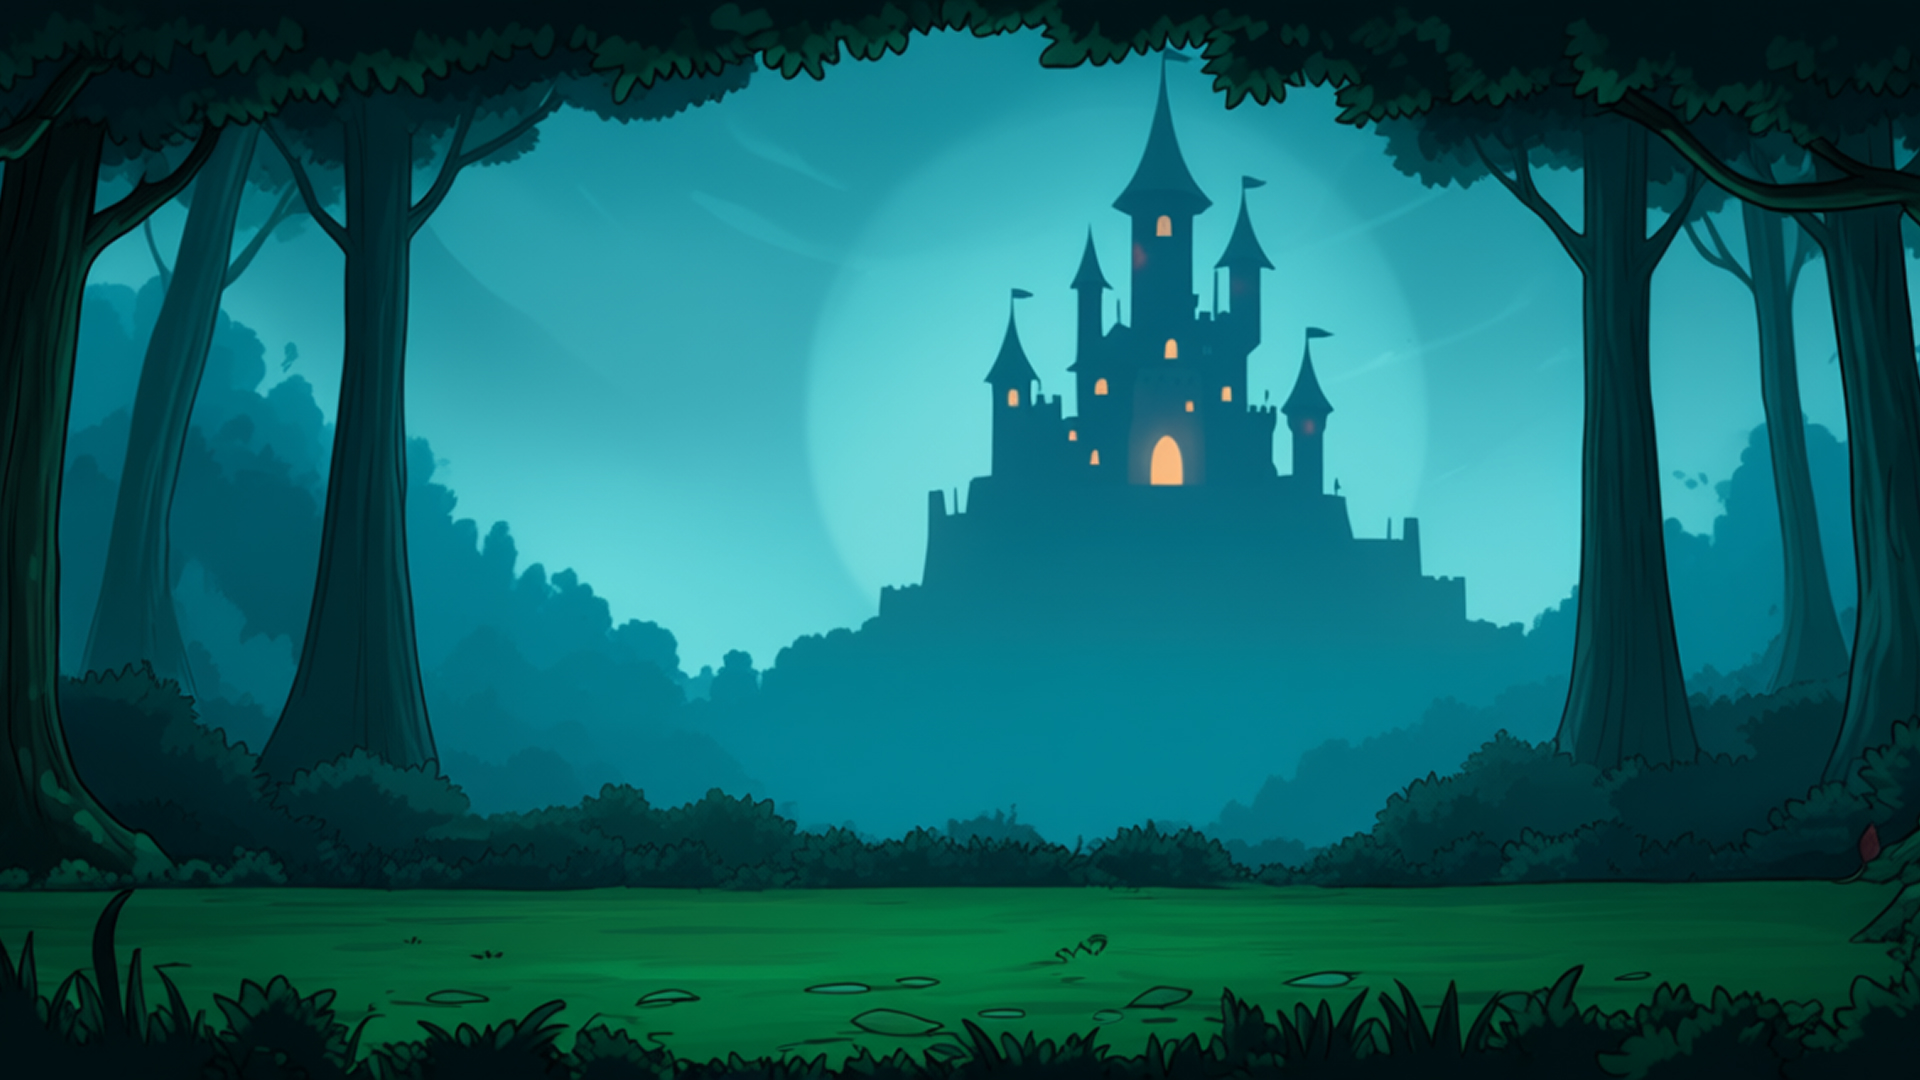
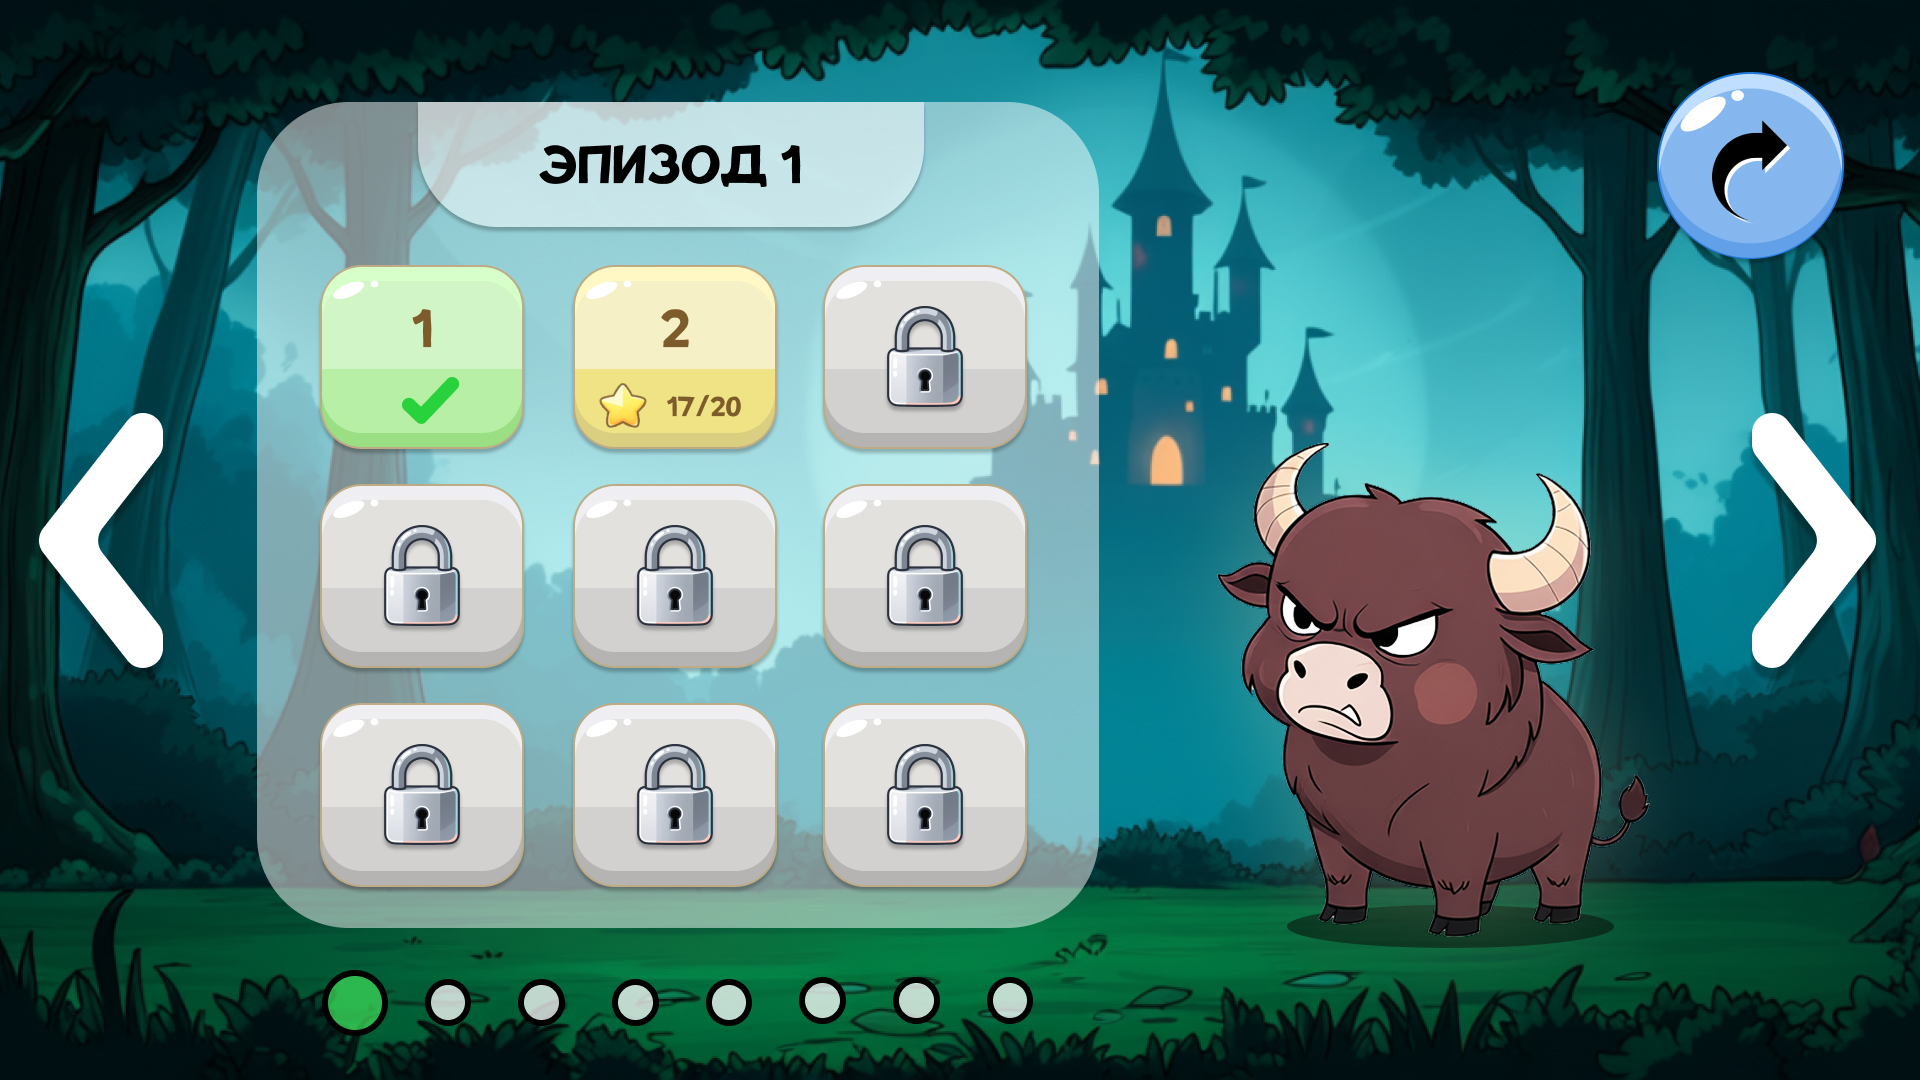
40

diff --git a/scripts/c3runtime.js b/scripts/c3runtime.js
@@ -1159,6 +1159,16 @@ const C3=self.C3,TILE_INDEX_MAP=new Map([[2,1],[8,2],[10,3],[11,4],[16,5],[18,6]
 const C3=self.C3;C3.Plugins.Tilemap.Patch=class{constructor(r){this._manager=r,this._mode=r.PAINT_MODE,this._mirror=0,this._flip=0,this._diagonal=0,this._indexTransformMirror=0,this._indexTransformFlip=0,this._indexTransformDiagonal=0}SetMode(r){this._mode=r}GetMode(){return this._mode}GetBrushWidth(r){return r.tileData[0].length}GetBrushHeight(r){return r.tileData.length}TransformPatch(r,t=!1,i=!1,e=0,a=0,s=0){switch(r=this._SetTransformState(0,0,e,r),this._indexTransformMirror=this._mirror,this._indexTransformFlip=this._flip,this._indexTransformDiagonal=this._diagonal,this._diagonal&&(r=this._TransposePatch(r)),this._mirror&&(r=this._MirrorPatch(r,s===this._manager.PAINT_MODE)),this._flip&&(r=this._FlipPatch(r,s===this._manager.PAINT_MODE)),r=this._SetTransformState(t?1:0,i?1:0,0,r),e){case 0:this._indexTransformMirror=this._mirror,this._indexTransformFlip=this._flip;break;case 1:this._indexTransformMirror=1^this._mirror,this._indexTransformFlip=this._flip;break;case 2:this._indexTransformMirror=1^this._mirror,this._indexTransformFlip=1^this._flip;break;case 3:this._indexTransformMirror=this._mirror,this._indexTransformFlip=1^this._flip}return this._mirror&&(r=this._MirrorPatch(r,s===this._manager.PAINT_MODE)),this._flip&&(r=this._FlipPatch(r,s===this._manager.PAINT_MODE)),r}BuildPatch(r,t,i){const e=i.tileData[0].length,a=i.tileData.length,s=Array.from({length:a},()=>new Array(e).fill(this._manager.EMPTY_INDEX)),n=this._manager.GetProbabilityTable();n.Clear();for(let r=0;r<a;r++)for(let t=0;t<e;t++){const e=i.tileData[r][t];switch(this._mode){case this._manager.PAINT_MODE:if(1===e.length){const i=e[0][0];if(i>this._manager.GetSdkIntance().GetMaxTileIndex())continue;s[r][t]=i}else{for(let[r,t]of e)r>this._manager.GetSdkIntance().GetMaxTileIndex()||("number"!=typeof t&&(t=1),n.AddItem(t,r));s[r][t]=n.Sample()}break;case this._manager.ERASE_MODE:i.tileData[r][t][0][0]===this._manager.EMPTY_INDEX?s[r][t]=this._manager.IGNORE_INDEX:s[r][t]=this._manager.EMPTY_INDEX}}return s}_SetTransformState(r,t,i,e){switch(i){case 0:this._mirror=r,this._flip=t,this._diagonal=0;break;case 1:this._mirror=1^t,this._flip=r,this._diagonal=1;break;case 2:this._mirror=1^r,this._flip=1^t,this._diagonal=0;break;case 3:this._mirror=t,this._flip=1^r,this._diagonal=1}return e}_GetTileIndexTransformation(r){if(r===this._manager.IGNORE_INDEX||r===this._manager.EMPTY_INDEX)return r;const t=globalThis.ITilemapInstance;let i=r&t.TILE_ID_MASK;return this._indexTransformDiagonal&&(i|=t.TILE_FLIPPED_DIAGONAL),this._indexTransformMirror&&(i|=t.TILE_FLIPPED_HORIZONTAL),this._indexTransformFlip&&(i|=t.TILE_FLIPPED_VERTICAL),i}_MirrorPatch(r,t){for(let t=0;t<r.length;t++)r[t].reverse();if(t){let t=r[0].length,i=r.length;for(let e=0;e<i;e++)for(let i=0;i<t;i++){const t=this._GetTileIndexTransformation(r[e][i]);r[e][i]=t}}return r}_FlipPatch(r,t){if(r.reverse(),t){let t=r[0].length,i=r.length;for(let e=0;e<i;e++)for(let i=0;i<t;i++){const t=this._GetTileIndexTransformation(r[e][i]);r[e][i]=t}}return r}_TransposePatch(r){let t=[],i=r.length,e=r[0].length;for(let a=0;a<e;a++){let e=[];for(let t=0;t<i;t++)e.push(r[t][a]);t.push(e)}return t}};
 }
 
+// scripts/plugins/NinePatch/c3runtime/runtime.js
+{
+{const t=self.C3;t.Plugins.NinePatch=class extends t.SDKPluginBase{constructor(t){super(t)}Release(){super.Release()}}}{const t=self.C3;t.Plugins.NinePatch.Type=class extends t.SDKTypeBase{constructor(t){super(t),this._textureSet=null,this._drawable=null}Release(){this.ReleaseTextures(),super.Release()}OnCreate(){this.GetImageInfo().LoadAsset(this._runtime)}async LoadTextures(t){const e=this.GetImageInfo();this._drawable=await e.ExtractImageToCanvas()}CreatePatch(t,e,s,i){!this._textureSet&&this._drawable&&(this._textureSet=new self.NinePatchTextureSet(this),this._textureSet.CreateTextures(this._drawable,t,e,s,i))}ReleaseTextures(){this._textureSet&&(this._textureSet.Release(),this._textureSet=null)}GetTextureSet(){return this._textureSet}}}{const t=self.C3,e=0,s=1,i=2,a=3,h=4,r=5,l=6,n=8,_=t.New(t.Rect),c=t.New(t.Rect),u=t.New(t.Quad);t.Plugins.NinePatch.Instance=class extends t.SDKWorldInstanceBase{constructor(t,_){super(t),this._leftMargin=16,this._rightMargin=16,this._topMargin=16,this._bottomMargin=16,this._edges=1,this._fill=1,this._isSeamless=!0,this._callback3d=null,_&&(this._leftMargin=_[e],this._rightMargin=_[s],this._topMargin=_[i],this._bottomMargin=_[a],this._edges=_[h],this._fill=_[r],this._isSeamless=!!_[n],this.GetWorldInfo().SetVisible(!!_[l])),this._sdkType.CreatePatch(this._leftMargin,this._rightMargin,this._topMargin,this._bottomMargin)}Release(){super.Release()}_Set3DCallback(t){this._callback3d=t}Draw(t){const e=this.GetWorldInfo(),s=e.GetBoundingQuad();this._Draw(t,s.getTlx(),s.getTly(),e.GetWidth(),e.GetHeight())}_Draw(t,e,s,i,a){let h=this._sdkType.GetTextureSet();if(!h&&(this._sdkType.CreatePatch(this._leftMargin,this._rightMargin,this._topMargin,this._bottomMargin),h=this._sdkType.GetTextureSet(),!h))return;const r=h.GetImageWidth(),l=h.GetImageHeight(),n=Math.min(this._leftMargin,r),_=Math.min(this._rightMargin,r),c=Math.min(this._topMargin,l),u=Math.min(this._bottomMargin,l),o=r-_,g=l-u,d=this._isSeamless?1:0,T=this._edges,x=this._fill;if(n>0&&c>0&&this._DrawPatch(t,h.GetTexture(),0,0,n+d,c+d,e,s,n+d,c+d),_>0&&c>0&&this._DrawPatch(t,h.GetTexture(),o-d,0,_+d,c+d,e+i-_-d,s,_+d,c+d),_>0&&u>0&&this._DrawPatch(t,h.GetTexture(),o-d,g-d,_+d,u+d,e+i-_-d,s+a-u-d,_+d,u+d),n>0&&u>0&&this._DrawPatch(t,h.GetTexture(),0,g-d,n+d,u+d,e,s+a-u-d,n+d,u+d),0===T){const r=2===x?0:d;n>0&&g>c&&this._TilePatch(t,h.GetLeftTexture(),e,s+c,n+r,a-c-u,0,0),_>0&&g>c&&this._TilePatch(t,h.GetRightTexture(),e+i-_-r,s+c,_+r,a-c-u,r,0),c>0&&o>n&&this._TilePatch(t,h.GetTopTexture(),e+n,s,i-n-_,c+r,0,0),u>0&&o>n&&this._TilePatch(t,h.GetBottomTexture(),e+n,s+a-u-r,i-n-_,u+r,0,r)}else 1===T&&(n>0&&g>c&&this._DrawPatch(t,h.GetTexture(),0,c,n,g-c,e,s+c,n,a-c-u),_>0&&g>c&&this._DrawPatch(t,h.GetTexture(),o,c,_,g-c,e+i-_,s+c,_,a-c-u),c>0&&o>n&&this._DrawPatch(t,h.GetTexture(),n,0,o-n,c,e+n,s,i-n-_,c),u>0&&o>n&&this._DrawPatch(t,h.GetTexture(),n,g,o-n,u,e+n,s+a-u,i-n-_,u));g>c&&o>n&&(0===x?this._TilePatch(t,h.GetFillTexture(),e+n,s+c,i-n-_,a-c-u,0,0):1===x&&this._DrawPatch(t,h.GetTexture(),n,c,o-n,g-c,e+n,s+c,i-n-_,a-c-u))}_DrawPatch(t,e,s,i,a,h,r,l,n,o){const g=e.GetWidth(),d=e.GetHeight();if(t.SetTexture(e),_.set(r,l,r+n,l+o),c.set(s/g,i/d,(s+a)/g,(i+h)/d),null===this._callback3d){const e=this.GetWorldInfo(),s=e.GetBoundingQuad(),i=s.getTlx(),a=s.getTly();_.offset(-i,-a),u.setFromRotatedRect(_,e.GetAngle()),u.offset(i,a),t.Quad3(u,c)}else this._callback3d(_,c)}_TilePatch(t,e,s,i,a,h,r,l){const n=e.GetWidth(),o=e.GetHeight();if(t.SetTexture(e),_.set(s,i,s+a,i+h),c.set(-r/n,-l/o,(a-r)/n,(h-l)/o),null===this._callback3d){const e=this.GetWorldInfo(),s=e.GetBoundingQuad(),i=s.getTlx(),a=s.getTly();_.offset(-i,-a),u.setFromRotatedRect(_,e.GetAngle()),u.offset(i,a),t.Quad3(u,c)}else this._callback3d(_,c)}GetCurrentImageInfo(){this._objectClass.GetImageInfo()}GetPropertyValueByIndex(t){}SetPropertyValueByIndex(t,e){}}}self.C3.Plugins.NinePatch.Cnds={};self.C3.Plugins.NinePatch.Acts={SetEffect(t){this.GetWorldInfo().SetBlendMode(t),this._runtime.UpdateRender()}};self.C3.Plugins.NinePatch.Exps={};
+}
+
+// scripts/plugins/NinePatch/c3runtime/textureSet.js
+{
+const C3=self.C3;function CloneDrawable(e){const t=C3.CreateCanvas(e.width,e.height);return t.getContext("2d").drawImage(e,0,0),t}self.NinePatchTextureSet=class{constructor(e){this._sdkType=e,this._runtime=this._sdkType.GetRuntime(),this._texture=null,this._fillTexture=null,this._leftTexture=null,this._rightTexture=null,this._topTexture=null,this._bottomTexture=null,this._imageWidth=0,this._imageHeight=0,this._renderer=this._runtime.GetRenderer(),this._isLoading=!1,this._wasReleased=!1}Release(){this._renderer.IsContextLost()||(this._renderer.DeleteTexture(this._texture),this._renderer.DeleteTexture(this._fillTexture),this._renderer.DeleteTexture(this._leftTexture),this._renderer.DeleteTexture(this._rightTexture),this._renderer.DeleteTexture(this._topTexture),this._renderer.DeleteTexture(this._bottomTexture)),this._texture=null,this._fillTexture=null,this._leftTexture=null,this._rightTexture=null,this._topTexture=null,this._bottomTexture=null,this._sdkType=null,this._renderer=null,this._wasReleased=!0}WasReleased(){return this._wasReleased}CreateTextures(e,t,r,i,s){this._SliceImage(e,t,r,i,s)}HasCreatedTextures(){return!!this._texture}_SliceImage(e,t,r,i,s){if(this._wasReleased)return;const a=e.width,h=e.height;this._imageWidth=a,this._imageHeight=h,t=Math.min(Math.floor(t),a),r=Math.min(Math.floor(r),a),i=Math.min(Math.floor(i),h);const l=a-r,u=h-(s=Math.min(Math.floor(s),h)),n=this._runtime.GetSampling(),_=this._runtime.GetCanvasManager().GetTextureAnisotropy();this._texture=this._renderer.CreateStaticTexture(CloneDrawable(e),{sampling:n,anisotropy:_}),l>t&&u>i&&(this._fillTexture=this._renderer.CreateStaticTexture(this._SliceSubImage(CloneDrawable(e),t,i,l,u),{wrapX:"repeat",wrapY:"repeat",sampling:n,anisotropy:_})),t>0&&u>i&&(this._leftTexture=this._renderer.CreateStaticTexture(this._SliceSubImage(CloneDrawable(e),0,i,t,u),{wrapY:"repeat",sampling:n,anisotropy:_})),r>0&&u>i&&(this._rightTexture=this._renderer.CreateStaticTexture(this._SliceSubImage(CloneDrawable(e),l,i,a,u),{wrapY:"repeat",sampling:n,anisotropy:_})),i>0&&l>t&&(this._topTexture=this._renderer.CreateStaticTexture(this._SliceSubImage(CloneDrawable(e),t,0,l,i),{wrapX:"repeat",sampling:n,anisotropy:_})),s>0&&l>t&&(this._bottomTexture=this._renderer.CreateStaticTexture(this._SliceSubImage(CloneDrawable(e),t,u,l,h),{wrapX:"repeat",sampling:n,anisotropy:_}))}_SliceSubImage(e,t,r,i,s){const a=i-t,h=s-r,l=C3.CreateCanvas(a,h);return l.getContext("2d").drawImage(e,t,r,a,h,0,0,a,h),l}GetImageWidth(){return this._imageWidth}GetImageHeight(){return this._imageHeight}GetTexture(){return this._texture}GetFillTexture(){return this._fillTexture}GetLeftTexture(){return this._leftTexture}GetRightTexture(){return this._rightTexture}GetTopTexture(){return this._topTexture}GetBottomTexture(){return this._bottomTexture}};
+}
+
 // scripts/plugins/Keyboard/c3runtime/runtime.js
 {
 {const e=self.C3;e.Plugins.Keyboard=class extends e.SDKPluginBase{constructor(e){super(e)}Release(){super.Release()}}}{const r=self.C3;self.C3X;r.Plugins.Keyboard.Type=class extends r.SDKTypeBase{constructor(e){super(e)}Release(){super.Release()}OnCreate(){}GetScriptInterfaceClass(){return self.IKeyboardObjectType}};let t=null;function GetKeyboardSdkInstance(){return t.GetSingleGlobalInstance().GetSdkInstance()}self.IKeyboardObjectType=class extends self.IObjectType{constructor(e){super(e),t=e,e.GetRuntime()._GetCommonScriptInterfaces().keyboard=this}isKeyDown(e){const r=GetKeyboardSdkInstance();if("string"==typeof e)return r.IsKeyDown(e);if("number"==typeof e)return r.IsKeyCodeDown(e);throw new TypeError("expected string or number")}}}{const s=self.C3,n="keyboard";s.Plugins.Keyboard.Instance=class extends s.SDKInstanceBase{constructor(e,r){super(e,n),this._keysDownByString=new Set,this._keysDownByWhich=new Set,this._triggerWhich=0,this._triggerString="",this._triggerTypedKey="",this._isKeyboardLockSupported=!1;const t=this.GetRuntime().Dispatcher();this._disposables=new s.CompositeDisposable(s.Disposable.From(t,"keydown",e=>this._OnKeyDown(e.data)),s.Disposable.From(t,"keyup",e=>this._OnKeyUp(e.data)),s.Disposable.From(t,"window-blur",()=>this._OnWindowOrKeyboardBlur()),s.Disposable.From(t,"keyboard-blur",()=>this._OnWindowOrKeyboardBlur())),this._runtime.AddLoadPromise(this._Init())}Release(){super.Release()}async _Init(){const e=await this.PostToDOMAsync("init");this._isKeyboardLockSupported=e["isKeyboardLockSupported"]}_OnKeyDown(e){const r=e["which"],t=e["code"]||r.toString(),n=e["key"];this._keysDownByString.has(t)||(this._keysDownByString.add(t),this._keysDownByWhich.add(r),this._triggerString=t,this._triggerWhich=r,this._triggerTypedKey=n,this.Trigger(s.Plugins.Keyboard.Cnds.OnAnyKey),this.Trigger(s.Plugins.Keyboard.Cnds.OnKey),this.Trigger(s.Plugins.Keyboard.Cnds.OnLeftRightKeyPressed),this.Trigger(s.Plugins.Keyboard.Cnds.OnKeyCode))}_OnKeyUp(e){const r=e["which"],t=e["code"]||r.toString(),n=e["key"];this._keysDownByString.delete(t),this._keysDownByWhich.delete(r),this._triggerString=t,this._triggerWhich=r,this._triggerTypedKey=n,this.Trigger(s.Plugins.Keyboard.Cnds.OnAnyKeyReleased),this.Trigger(s.Plugins.Keyboard.Cnds.OnKeyReleased),this.Trigger(s.Plugins.Keyboard.Cnds.OnLeftRightKeyReleased),this.Trigger(s.Plugins.Keyboard.Cnds.OnKeyCodeReleased)}_OnWindowOrKeyboardBlur(){for(const e of this._keysDownByWhich)this._keysDownByWhich.delete(e),this._triggerWhich=e,this.Trigger(s.Plugins.Keyboard.Cnds.OnAnyKeyReleased),this.Trigger(s.Plugins.Keyboard.Cnds.OnKeyReleased),this.Trigger(s.Plugins.Keyboard.Cnds.OnKeyCodeReleased);this._keysDownByString.clear()}IsKeyDown(e){return this._keysDownByString.has(e)}IsKeyCodeDown(e){return this._keysDownByWhich.has(e)}SaveToJson(){return{"tk":this._triggerWhich,"tkk":this._triggerTypedKey}}LoadFromJson(e){this._triggerWhich=e["tk"],e.hasOwnProperty("tkk")&&(this._triggerTypedKey=e["tkk"])}GetDebuggerProperties(){const e="plugins.keyboard";return[{title:e+".name",properties:[{name:e+".debugger.last-key-code",value:this._triggerWhich},{name:e+".debugger.last-key-string",value:s.Plugins.Keyboard.Exps.StringFromKeyCode(this._triggerWhich)},{name:e+".debugger.last-typed-key",value:this._triggerTypedKey}]}]}}}{const i=self.C3,a=["ShiftLeft","ShiftRight","ControlLeft","ControlRight","AltLeft","AltRight","MetaLeft","MetaRight"];i.Plugins.Keyboard.Cnds={IsKeyDown(e){return this._keysDownByWhich.has(e)},OnKey(e){return this._triggerWhich===e},OnAnyKey:()=>!0,OnAnyKeyReleased:()=>!0,OnKeyReleased(e){return this._triggerWhich===e},IsKeyCodeDown(e){return e=Math.floor(e),this._keysDownByWhich.has(e)},OnKeyCode(e){return this._triggerWhich===e},OnKeyCodeReleased(e){return this._triggerWhich===e},OnLeftRightKeyPressed(e){const r=a[e];return this._triggerString===r},OnLeftRightKeyReleased(e){const r=a[e];return this._triggerString===r},IsLeftRightKeyDown(e){const r=a[e];return this._keysDownByString.has(r)},IsKeyboardLockSupported(){return this._isKeyboardLockSupported},OnKeyboardLocked:()=>!0,OnKeyboardLockError:()=>!0}}{const o=self.C3;o.Plugins.Keyboard.Acts={async LockKeyboard(e){if(!this._isKeyboardLockSupported)return;let r=[];e&&(r=e.split(","));(await this.PostToDOMAsync("lock-keyboard",{"keysArr":r}))["isOk"]?this.Trigger(o.Plugins.Keyboard.Cnds.OnKeyboardLocked):this.Trigger(o.Plugins.Keyboard.Cnds.OnKeyboardLockError)},UnlockKeyboard(){this._isKeyboardLockSupported&&this.PostToDOMAsync("unlock-keyboard")}}}{function StringFromCharCode(e){switch(e=Math.floor(e)){case 8:return"backspace";case 9:return"tab";case 13:return"enter";case 16:return"shift";case 17:return"control";case 18:return"alt";case 19:return"pause";case 20:return"capslock";case 27:return"esc";case 33:return"pageup";case 34:return"pagedown";case 35:return"end";case 36:return"home";case 37:return"←";case 38:return"↑";case 39:return"→";case 40:return"↓";case 45:return"insert";case 46:return"del";case 91:return"left window key";case 92:return"right window key";case 93:return"select";case 96:return"numpad 0";case 97:return"numpad 1";case 98:return"numpad 2";case 99:return"numpad 3";case 100:return"numpad 4";case 101:return"numpad 5";case 102:return"numpad 6";case 103:return"numpad 7";case 104:return"numpad 8";case 105:return"numpad 9";case 106:return"numpad *";case 107:return"numpad +";case 109:return"numpad -";case 110:return"numpad .";case 111:return"numpad /";case 112:return"F1";case 113:return"F2";case 114:return"F3";case 115:return"F4";case 116:return"F5";case 117:return"F6";case 118:return"F7";case 119:return"F8";case 120:return"F9";case 121:return"F10";case 122:return"F11";case 123:return"F12";case 144:return"numlock";case 145:return"scroll lock";case 186:return";";case 187:return"=";case 188:return",";case 189:return"-";case 190:return".";case 191:return"/";case 192:return"'";case 219:return"[";case 220:return"\\";case 221:return"]";case 222:return"#";case 223:return"`";default:return String.fromCharCode(e)}}self.C3.Plugins.Keyboard.Exps={LastKeyCode(){return this._triggerWhich},StringFromKeyCode:e=>StringFromCharCode(e),TypedKey(){return this._triggerTypedKey}}}
@@ -1335,7 +1345,8 @@ self.C3_ExpressionFuncs = [
 		() => 54,
 		() => 60,
 		() => 3,
-		() => 2
+		() => 2,
+		() => 7
 ];
 
 

diff --git a/scripts/objRefTable.js b/scripts/objRefTable.js
@@ -10,6 +10,7 @@ self.C3_GetObjectRefTable = function () {
 		C3.Plugins.Text,
 		C3.Plugins.TiledBg,
 		C3.Plugins.Tilemap,
+		C3.Plugins.NinePatch,
 		C3.Plugins.Keyboard,
 		C3.Plugins.Touch,
 		C3.Plugins.Audio,
@@ -51,7 +52,9 @@ self.C3_GetObjectRefTable = function () {
 		C3.Plugins.Text.Cnds.CompareInstanceVar,
 		C3.Plugins.Sprite.Acts.SetScale,
 		C3.Plugins.Text.Acts.SetFontSize,
-		C3.Plugins.System.Acts.GoToLayout
+		C3.Plugins.System.Acts.GoToLayout,
+		C3.Plugins.System.Acts.SubVar,
+		C3.Plugins.Sprite.Acts.SetAnimFrame
 	];
 };
 self.C3_JsPropNameTable = [
@@ -99,11 +102,18 @@ self.C3_JsPropNameTable = [
 	{map_back: 0},
 	{Sprite2: 0},
 	{btn_map_back: 0},
+	{lvl_bottom_layer: 0},
+	{lvl_window_title: 0},
+	{enemy_count: 0},
+	{enemy: 0},
+	{btn_map_left: 0},
+	{btn_map_right: 0},
 	{Клавиатура: 0},
 	{Touch: 0},
 	{Audio: 0},
 	{score: 0},
-	{current_checkpoint: 0}
+	{current_checkpoint: 0},
+	{enemy_type: 0}
 ];
 
 self.InstanceType = {
@@ -142,6 +152,11 @@ self.InstanceType = {
 	map_back: class extends self.ISpriteInstance {},
 	Sprite2: class extends self.ISpriteInstance {},
 	btn_map_back: class extends self.ISpriteInstance {},
+	lvl_bottom_layer: class extends self.IWorldInstance {},
+	lvl_window_title: class extends self.ISpriteInstance {},
+	enemy: class extends self.ISpriteInstance {},
+	btn_map_left: class extends self.ISpriteInstance {},
+	btn_map_right: class extends self.ISpriteInstance {},
 	Клавиатура: class extends self.IInstance {},
 	Touch: class extends self.IInstance {},
 	Audio: class extends self.IInstance {}
